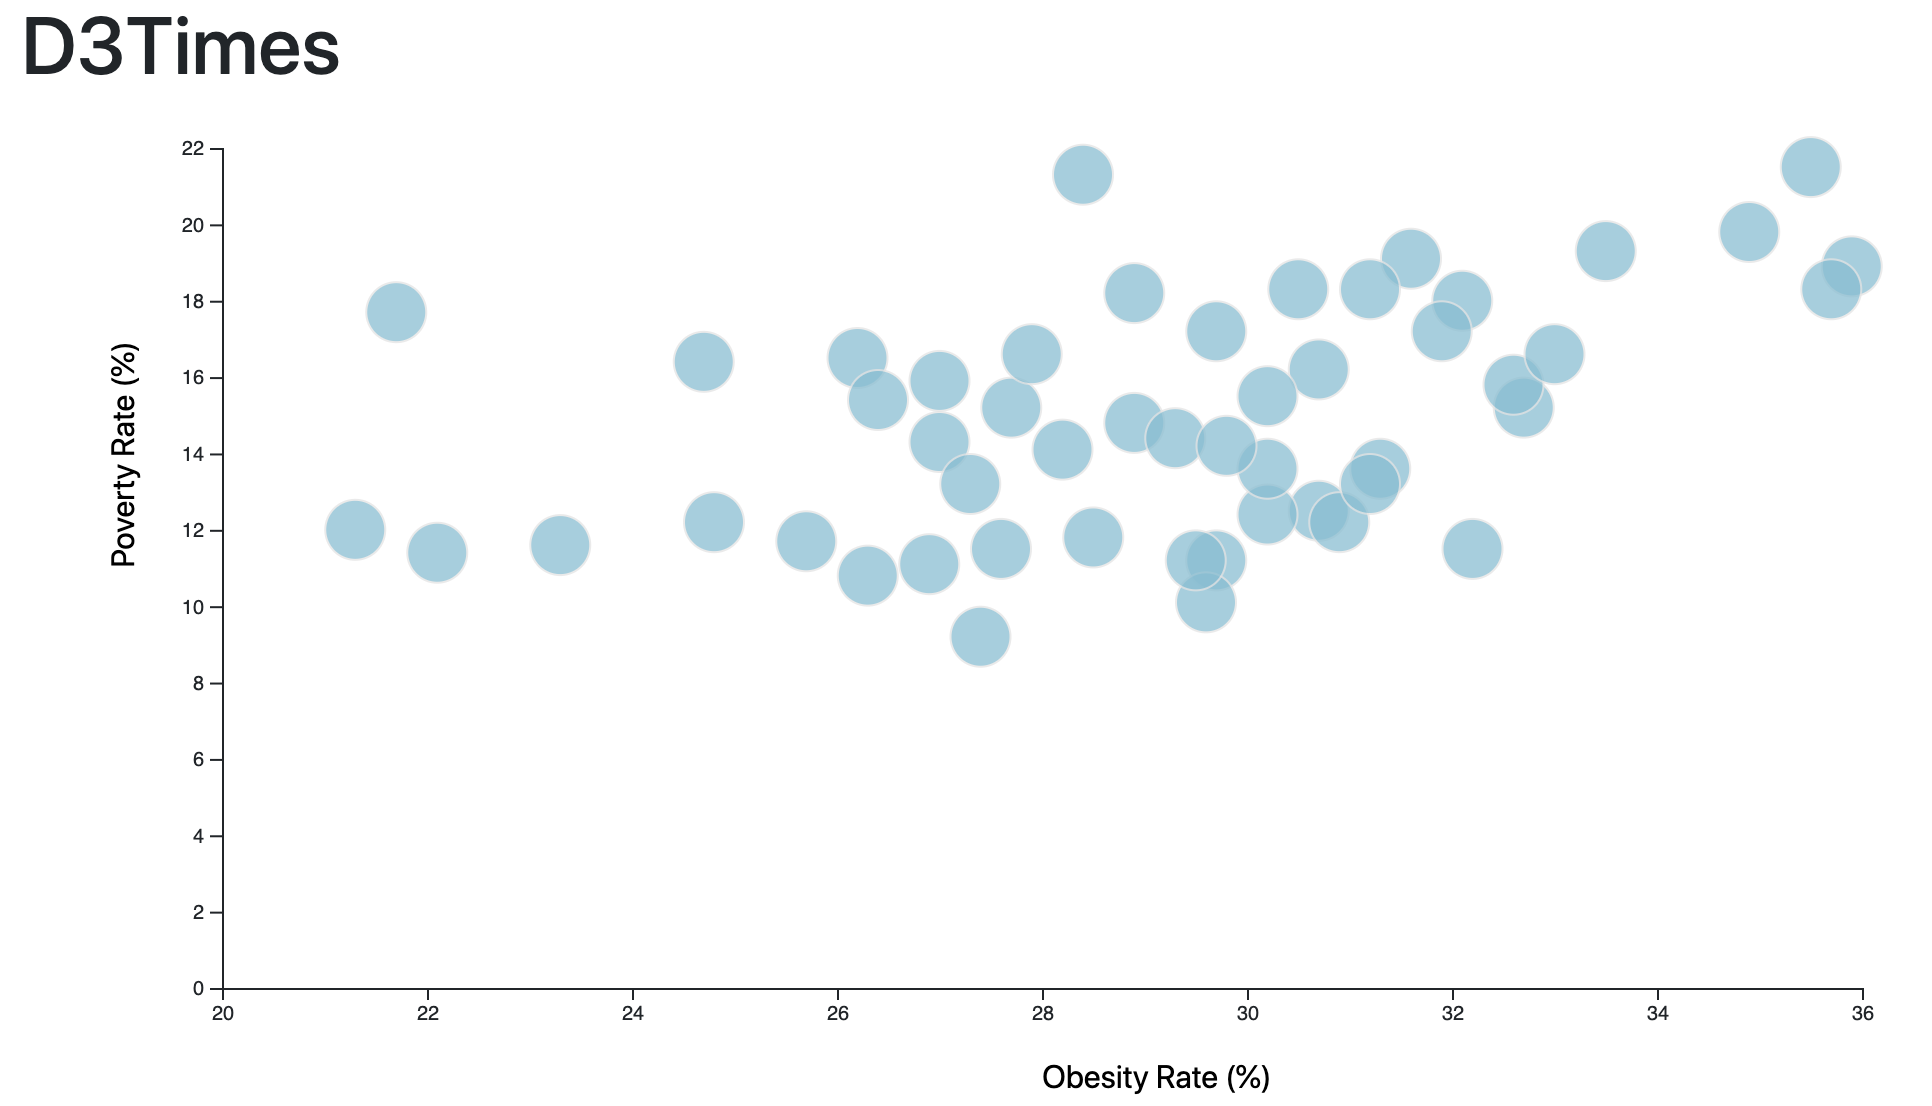
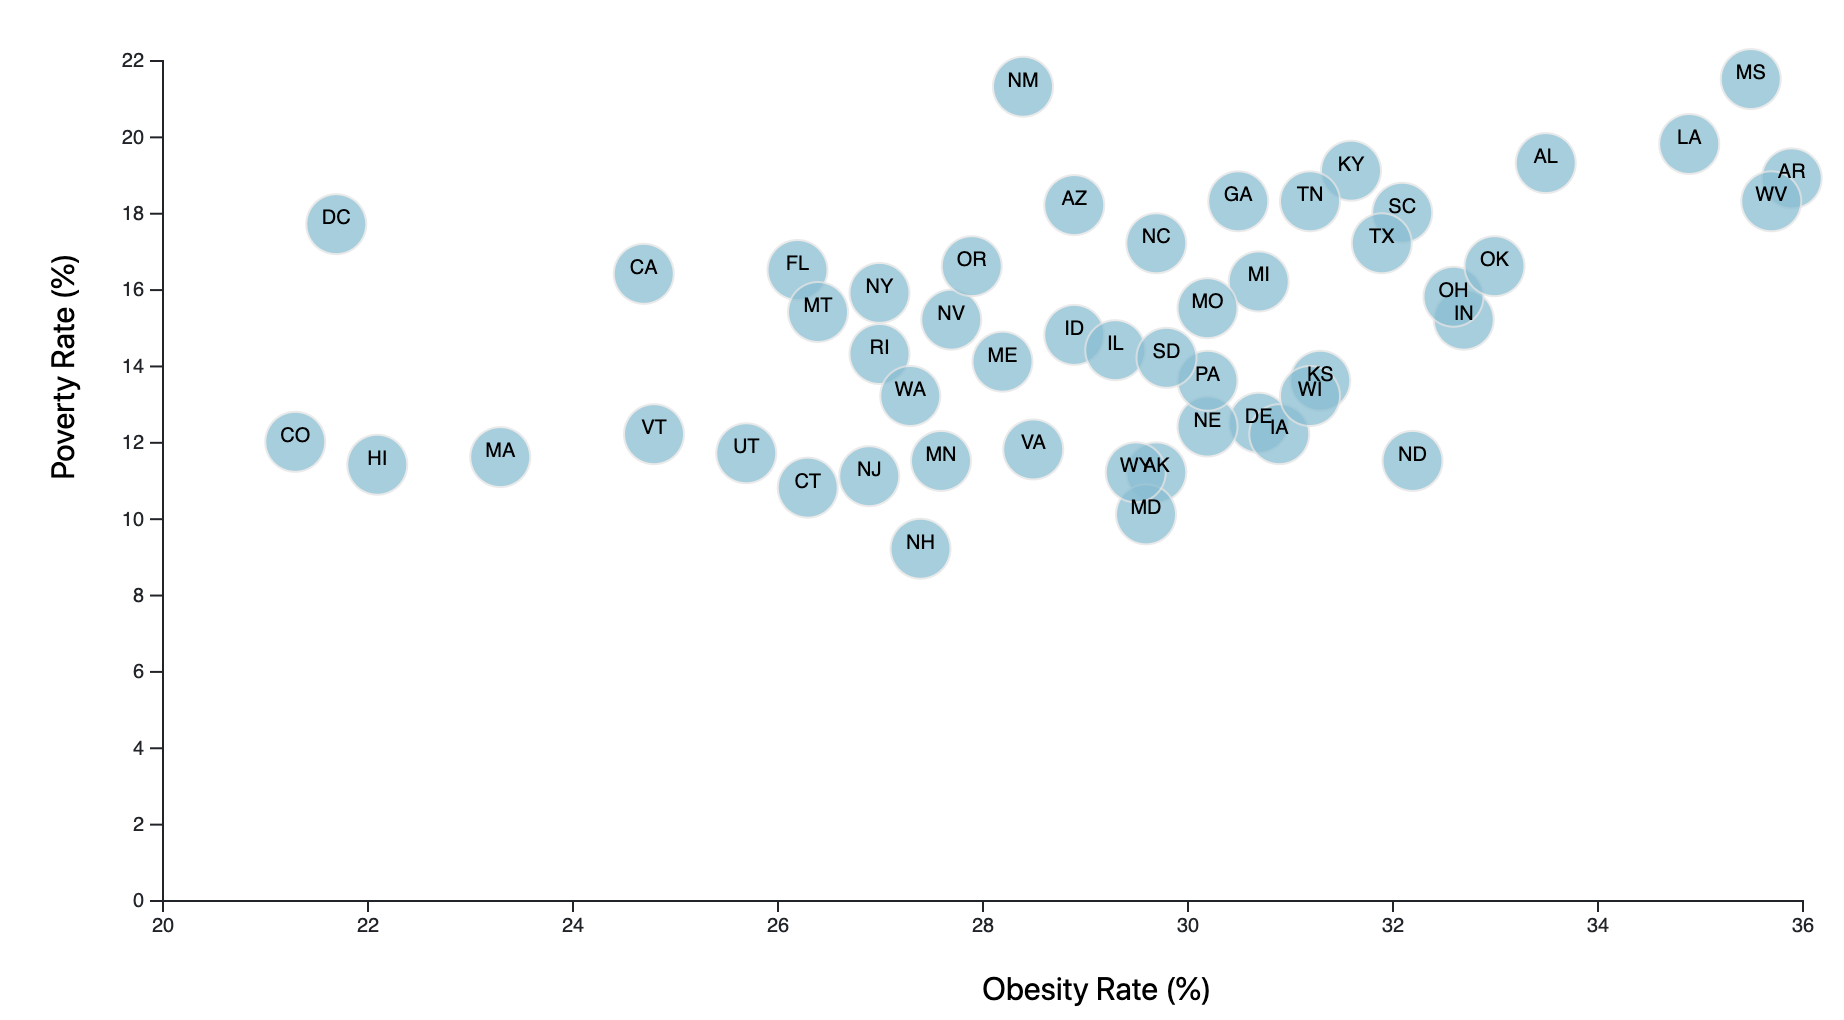
Add state labels

diff --git a/D3_data_journalism/assets/js/app.js b/D3_data_journalism/assets/js/app.js
@@ -24,14 +24,14 @@ var margin = {
 // Import Data
 d3.csv("assets/data/data.csv").then(function(healthData) {
 
-// Step 1: Parse Data/Cast as numbers
+// Parse Data/Cast as numbers
     // ==============================
     healthData.forEach(function(data) {
         data.obesity = +data.obesity;
         data.poverty = +data.poverty;
       });
 
-// Step 2: Create scale functions
+// Create scale functions
     // ==============================
     var xLinearScale = d3.scaleLinear()
       .domain([20, d3.max(healthData, d => d.obesity)])
@@ -43,12 +43,12 @@ d3.csv("assets/data/data.csv").then(function(healthData) {
       .range([height, 0])
       .nice();
 
-// Step 3: Create axis functions
+// Create axis functions
     // ==============================
     var bottomAxis = d3.axisBottom(xLinearScale);
     var leftAxis = d3.axisLeft(yLinearScale);
 
-// Step 4: Append Axes to the chart
+// Append Axes to the chart
     // ==============================
     chartGroup.append("g")
       .attr("transform", `translate(0, ${height})`)
@@ -57,7 +57,7 @@ d3.csv("assets/data/data.csv").then(function(healthData) {
     chartGroup.append("g")
       .call(leftAxis);
 
-// Step 5: Create Circles
+// Create Circles with state lables
     // ==============================
     var circlesGroup = chartGroup.selectAll("circle")
     .data(healthData)
@@ -70,23 +70,42 @@ d3.csv("assets/data/data.csv").then(function(healthData) {
     .classed("stateCircle", true)
     .attr("opacity", ".75");
 
-// Step 6: Initialize tool tip
+    //adding the state label to each circle
+    var circleLabels = chartGroup.selectAll(null).data(healthData).enter().append("text");
+
+    circleLabels
+    .attr("x", function(d) {
+        return xLinearScale(d.obesity);
+    })
+    .attr("y", function(d) {
+        return yLinearScale(d.poverty);
+    })
+    .text(function(d) {
+        return d.abbr;
+    })
+    .attr("font-family", "sans-serif")
+    .attr("font-size", "10px")
+    .attr("text-anchor", "middle")
+    .attr("fill", "black");
+ 
+
+// Initialize tool tip
     // ==============================
     var toolTip = d3.tip()
       .attr("class", "tooltip")
       .offset([80, -60])
-      .style("display", "block")
       .html(function(d) {
         return (`${d.abbr}<br>Obesity Rate: ${d.obesity}<br>Poverty Rate: ${d.poverty}`);
       });
   
-// Step 7: Create tooltip in the chart
+// Create tooltip in the chart
     // ==============================
     chartGroup.call(toolTip);
 
-// Step 8: Create event listeners to display and hide the tooltip
+// Create event listeners to display and hide the tooltip
     // ==============================
     circlesGroup.on("click", function(data) {
+        toolTip.style("display", "block")
         toolTip.show(data, this);
     })
       // onmouseout event

diff --git a/D3_data_journalism/assets/css/d3Style.css b/D3_data_journalism/assets/css/d3Style.css
@@ -26,7 +26,7 @@
 /* font size dependent on radius, see app.js */
 .stateText {
   font-family: sans-serif;
-  fill: #fff;
+  fill: black;
   text-anchor: middle;
 }
 
